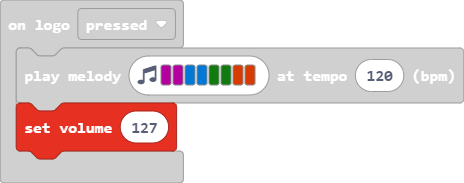
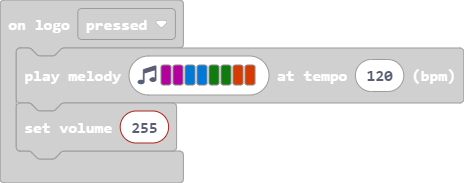
Update main.blocks, main.ts

Changed region(s): [[0.0302, 0.5464, 0.3922, 0.8743]]

diff --git a/main.ts b/main.ts
@@ -6,6 +6,6 @@ input.onButtonPressed(Button.B, function () {
 })
 input.onLogoEvent(TouchButtonEvent.Pressed, function () {
     music.playMelody("C C E E G G B B ", 120)
-    music.setVolume(127)
+    music.setVolume(255)
 })
 basic.showIcon(IconNames.Chessboard)
